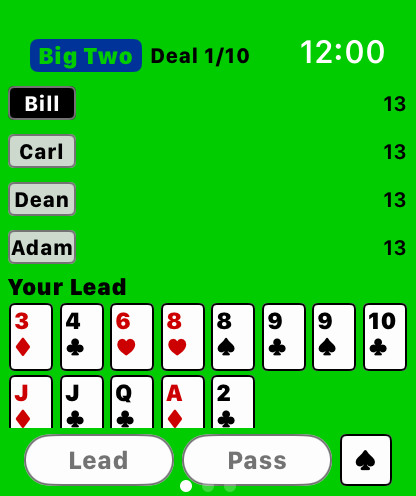
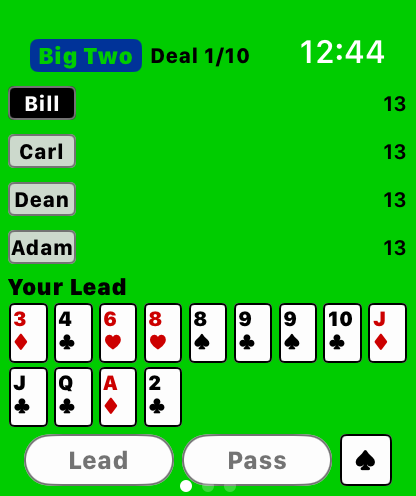
Size the watch's hand to fit, so nothing has to be scrolled to
Reported from a real watch: the table came up already scrolled, with the first
player rows above the fold and the button bar past the bottom edge. Neither
reproduced on a 40mm, 42mm or 46mm simulator on watchOS 11 or 27 — the device
simply has less room than the content wanted, and once a ScrollView is involved
that turns into a scroll position nobody asked for.

So nothing scrolls now. The grid sits in a GeometryReader, which in a stack
takes exactly the space that is left, and fittedCardHeight(in:) picks the
largest card height from 34 down to 18 whose rows fit it. A 46mm keeps big
cards; a 40mm now shows all thirteen where it showed six. This is also what the
project already required — a watchOS UI test cannot scroll, and the Digital
Crown has no XCUITest API — so anything the player needs had to be on screen
anyway.

The band's depth is also read live now, in the same layout pass that uses it.
Stashed in @State from an onAppear it looked right on every simulator here and
was wrong on the device, where the bar sank past the bottom edge.

Tried and rejected, measured rather than assumed:
ToolbarItemGroup(placement: .bottomBar) leaves the content 204x133 of a 208x248
screen on a 46mm — 53pt at the bottom against 32 for the hand-built bar — and
still draws its pills taller than it reserved, so the hand's last row lands
under them unless the cards shrink to about 20pt, which cannot be read.

BigTwoWatchUITests 8/8 on the 46mm; 40mm/watchOS 11 checked by hand.

Changed region(s): [[0.0, 0.6048, 1.0, 0.877], [0.75, 0.0605, 0.9375, 0.1512]]

diff --git a/BigTwoWatch/Views/WatchGameView.swift b/BigTwoWatch/Views/WatchGameView.swift
@@ -2,9 +2,9 @@
 //  WatchGameView.swift
 //  Big Two on the watch, in the phone's shape: the navy title and the deal counter share
 //  the top bar with the system clock, the four player rows and your hand fill the middle,
-//  and Lead/Play and Pass sit in the bottom safe area. The square itself cannot come
-//  along — a wrist has no room for 320×320 — so the hand is a grid under the Digital
-//  Crown rather than a strip along the bottom edge.
+//  and Lead/Play and Pass sit in the band the watch keeps at the bottom. The square itself cannot come
+//  along — a wrist has no room for 320×320 — so the hand is a grid, and its cards are
+//  sized to whatever space is left so that nothing ever has to be scrolled to.
 //
 
 import BigTwoKit
@@ -14,11 +14,11 @@ struct WatchGameView: View {
   @ObservedObject var game: BigTwoGame
   @State private var selection: Set<Card> = []
   @State private var message: String?
-  /// How deep the band the system keeps at the bottom is on this watch — measured,
-  /// because it differs by watch size and by watchOS version. See `controls`.
-  @State private var bottomInset: CGFloat = 0
 
-  private static let handCardHeight: CGFloat = 34
+  /// The hand's cards are sized to the space that is left, between these two. A 46mm has
+  /// room for the full 34; a 41mm does not, and a card it has to shrink still reads.
+  private static let maxCardHeight: CGFloat = 34
+  private static let minCardHeight: CGFloat = 18
   /// The pinned button bar: how tall it is, and how far its pills stay off the glass.
   private static let barHeight: CGFloat = 32
   private static let barLift: CGFloat = 2
@@ -31,46 +31,50 @@ struct WatchGameView: View {
   /// Play order starting from you, as on the phone.
   private var rowOrder: [Int] { (0..<4).map { (seat + $0) % 4 } }
 
-  private let columns = [
-    GridItem(.adaptive(minimum: WatchGameView.handCardHeight * WatchCardView.aspect), spacing: 2)
-  ]
-
   var body: some View {
     // The top bar only exists inside a navigation stack; it is what puts the title on
     // the clock's own row instead of costing a strip of the screen below it.
-    NavigationStack { table }
-      // The one way to learn how deep that band is: an overlay is not laid out into it,
-      // but it does report it.
-      .overlay {
-        GeometryReader { geo in
-          Color.clear.onAppear { bottomInset = geo.safeAreaInsets.bottom }
-        }
-        .allowsHitTesting(false)
+    NavigationStack {
+      // ⚠ The band's depth is read live, in the same layout pass that uses it. Stashing
+      // it in `@State` from an `onAppear` looked identical on every simulator here and
+      // was wrong on a real watch: the first value a paged `TabView` hands out is not the
+      // one the page settles at, and a bar sunk by a depth that is too large walks off
+      // the bottom of the screen.
+      GeometryReader { geo in
+        table(sink: max(geo.safeAreaInsets.bottom - Self.barLift, 0))
       }
+    }
   }
 
-  private var table: some View {
+  private func table(sink: CGFloat) -> some View {
     // A plain stack, not `safeAreaInset`: the whole thing is pushed down into the system's
-    // bottom band (see `bottomInset`), and an inset bar leaves the scroll view laid out
-    // over it — the hand's last row came back clipped.
+    // bottom band, and an inset bar leaves the content laid out over it — the hand's last
+    // row came back clipped.
     VStack(spacing: 0) {
-      ScrollView {
-        VStack(spacing: 1) {
-          ForEach(rowOrder, id: \.self) { s in
-            WatchPlayerRowView(player: game.seats[s], action: game.lastActions[s],
-                               isTurn: game.turn == s && game.result == nil)
-          }
-          Text(verbatim: message ?? prompt)
-            .font(.palm(12, .heavy))
-            .foregroundColor(.ink)
-            .lineLimit(2)
-            .minimumScaleFactor(0.7)
-            .frame(maxWidth: .infinity, alignment: .leading)
-            .accessibilityIdentifier("prompt")
-          LazyVGrid(columns: columns, spacing: 2) {
+      VStack(spacing: 1) {
+        ForEach(rowOrder, id: \.self) { s in
+          WatchPlayerRowView(player: game.seats[s], action: game.lastActions[s],
+                             isTurn: game.turn == s && game.result == nil)
+        }
+        Text(verbatim: message ?? prompt)
+          .font(.palm(12, .heavy))
+          .foregroundColor(.ink)
+          .lineLimit(2)
+          .minimumScaleFactor(0.7)
+          .frame(maxWidth: .infinity, alignment: .leading)
+          .accessibilityIdentifier("prompt")
+        // ⚠ Nothing scrolls any more. A hand that does not fit is the whole bug: a
+        // watchOS UI test cannot scroll, the Digital Crown has no XCUITest API, and on a
+        // real watch the table came up already scrolled, with the player rows above the
+        // fold — a smaller screen than any simulator here reproduced it on. A
+        // GeometryReader in a stack takes exactly what is left, so the cards are sized to
+        // it instead: the full 34 wherever there is room, less where there is not.
+        GeometryReader { space in
+          let height = fittedCardHeight(in: space.size)
+          LazyVGrid(columns: [GridItem(.adaptive(minimum: height * WatchCardView.aspect),
+                                       spacing: 2)], spacing: 2) {
             ForEach(hand) { card in
-              WatchCardView(card: card, selected: selection.contains(card),
-                            height: Self.handCardHeight)
+              WatchCardView(card: card, selected: selection.contains(card), height: height)
                 // ⚠ The two-tap gesture has to be attached *before* the one-tap one, or
                 // the single tap swallows the event and the double never fires.
                 .onTapGesture(count: 2) { selectSuitOrPair(card) }
@@ -79,25 +83,26 @@ struct WatchGameView: View {
                 .accessibilityIdentifier("hand_\(card.code)")
             }
           }
+          .frame(maxWidth: .infinity, maxHeight: .infinity, alignment: .top)
         }
-        .padding(.horizontal, 2)
-        // The navigation bar reserves a band under the clock that nothing draws in. Taking
-        // it back is what keeps the whole hand on one screen once the played cards grew.
-        .padding(.top, -22)
       }
-      // Open at the top. Reported from a real watch: the table came up already scrolled,
-      // with the first player rows above the fold. Not reproducible on any simulator here
-      // (40mm/46mm, watchOS 11 and 27), so this pins what the simulators do by default.
-      .defaultScrollAnchor(.top)
+      .padding(.horizontal, 2)
+      // The navigation bar reserves a band under the clock that nothing draws in. Taking
+      // it back is what keeps the whole hand on one screen once the played cards grew.
+      .padding(.top, -22)
       controls
     }
     // The system keeps a deep band at the bottom for the curved glass — 26pt on a 40mm,
     // 36pt on a 46mm. Left alone it is an empty strip under the buttons and costs the
-    // hand a row. ⚠ `.ignoresSafeArea` does not take it back: on watchOS 11 the modifier
-    // is a no-op there at every level (the bar, the scroll view, the navigation stack,
-    // the TabView — all four measured), and it only began working in watchOS 27. A
-    // negative padding of the measured depth reaches into it on both, unclipped.
-    .padding(.bottom, -max(bottomInset - Self.barLift, 0))
+    // hand a row; the screen has no room to give it away. ⚠ `.ignoresSafeArea` does not
+    // take it back: on watchOS 11 the modifier is a no-op there at every level (the bar,
+    // the scroll view, the navigation stack, the TabView — all four measured), and it
+    // only began working in watchOS 27. A negative padding does reach into it on both,
+    // unclipped. ⚠ `ToolbarItemGroup(placement: .bottomBar)` is not the answer either:
+    // measured on a 46mm it leaves the content 204×133 of a 208×248 screen — 53pt at the
+    // bottom — and still draws the pills taller than it reserved, so the hand's last row
+    // ends up under them unless the cards shrink to about 20pt, which cannot be read.
+    .padding(.bottom, -sink)
     .toolbar {
       ToolbarItem(placement: .topBarLeading) {
         WatchTitleBarView(deal: game.deal, dealsPerGame: game.rules.dealsPerGame)
@@ -153,6 +158,19 @@ struct WatchGameView: View {
     // The bar reaches below the scroll view into the band; without an opaque fill the
     // felt behind it is a different shade and the strip reads as a seam.
     .background(Color.felt)
+  }
+
+  /// The largest card height, up to `maxCardHeight`, whose rows all fit in `size`. The
+  /// grid is `.adaptive`, so the column count follows from the width the same way it does.
+  private func fittedCardHeight(in size: CGSize) -> CGFloat {
+    var height = Self.maxCardHeight
+    while height > Self.minCardHeight {
+      let columns = max(Int((size.width + 2) / (height * WatchCardView.aspect + 2)), 1)
+      let rows = (hand.count + columns - 1) / columns
+      if CGFloat(rows) * (height + 2) - 2 <= size.height { break }
+      height -= 1
+    }
+    return height
   }
 
   private var prompt: String {

diff --git a/CLAUDE.md b/CLAUDE.md
@@ -184,12 +184,14 @@ runs the same `BigTwoKit` — same rules, same bots, same scoring. The kit decla
 - **Same shape as the phone, chrome in the safe areas.** The navy "Big Two" tab and
   `Deal n/10` share the **top bar with the system clock** — a `ToolbarItem(placement:
   .topBarLeading)` inside a `NavigationStack`, not a strip of screen below the clock;
-  Lead/Play, Pass and the sort icon are `safeAreaInset(edge: .bottom)`. Between them: one
+  Lead/Play, Pass and the sort icon are the last row of a `VStack`. Between them: one
   row per player in play order from you (name chip inverted on that player's turn, their
   last move, cards left), the prompt, and your hand. Only the 320×320 square itself is
-  dropped — a wrist has no room — so the hand is an adaptive `LazyVGrid` that scrolls
-  under the Digital Crown. Putting the title on the clock's row is what buys the space
-  for a **full first row of cards** to be visible without scrolling.
+  dropped — a wrist has no room — so the hand is an adaptive `LazyVGrid`.
+  **Nothing scrolls.** The grid sits in a `GeometryReader`, which in a stack takes exactly
+  the space that is left, and `fittedCardHeight(in:)` picks the largest card height from
+  34 down to 18 whose rows fit it. A 46mm keeps big cards; a 41mm gets smaller ones and
+  still shows all thirteen. Putting the title on the clock's row is what buys that space.
   Lead/Play and Pass hide when it is not your turn, as on the phone; the sort icon does
   not, and shows the order a tap switches *to* (`♠` / `2`).
   A card in someone else's row is `WatchPlayedCardView` — rank and suit **side by side**,
@@ -199,15 +201,28 @@ runs the same `BigTwoKit` — same rules, same bots, same scoring. The kit decla
   keeps `WatchCardView`.
   ⚠ Three offsets fight the system here and all are deliberate: the toolbar drops its item
   below the clock's baseline, so the title carries `.offset(y: -8)` to sit on that row;
-  the watch reserves a deep bottom safe area for the curved glass, so the button bar
-  takes it back with `.ignoresSafeArea(.container, edges: .bottom)` and keeps clear of the
-  rounded corners with its own wider side margins; and the navigation bar reserves a band
-  under the clock that nothing draws in, which the scroll content takes back with a
-  negative top padding. Between them the **whole 13-card hand
-  fits without scrolling** — which is the only way it can be played, since a watchOS UI
-  test (and the Digital Crown) cannot scroll it.
-  ⚠ The pinned bars need an opaque `Color.felt` background: without one the hand scrolls
-  through them and the buttons read as ghosts.
+  the navigation bar reserves a band under the clock that nothing draws in, which the
+  content takes back with a negative top padding; and the watch reserves a deep band at
+  the **bottom** for the curved glass (26pt on a 40mm, 36pt on a 46mm), which the whole
+  stack takes back with a negative bottom padding of that measured depth. Between them the
+  **whole 13-card hand fits without scrolling** — the only way it can be played, since a
+  watchOS UI test (and the Digital Crown) cannot scroll it.
+  ⚠ **The bottom band cannot be taken back with `.ignoresSafeArea`.** On watchOS 11 that
+  modifier is a **no-op** there — measured at all four levels (the button bar, the scroll
+  view, the `NavigationStack`, the `TabView`) — and it only began working in watchOS 27;
+  a 40mm on watchOS 11 showed a 26pt empty strip under the buttons. A negative padding
+  does reach into it on both, and is not clipped. The depth is read **live**, from a
+  `GeometryReader` wrapping the page, in the same layout pass that uses it: stashed in
+  `@State` from an `onAppear` it looked right on every simulator and was wrong on a real
+  watch, where the bar sank past the bottom edge.
+  ⚠ `safeAreaInset(edge: .bottom)` cannot hold that bar either — it reserves the height
+  the bar was *given*, not the part of it that ends up above the band, so the hand's last
+  row came back clipped on a 46mm. A plain `VStack` of content + bar divides the space
+  correctly once the stack itself is the thing that sinks.
+  ⚠ **`ToolbarItemGroup(placement: .bottomBar)` is not the answer.** Measured on a 46mm it
+  leaves the content 204×133 of a 208×248 screen — 53pt at the bottom, against 32 for the
+  hand-built bar — and still draws its pills taller than it reserved, so the hand's last
+  row lands under them unless the cards shrink to about 20pt, which cannot be read.
   ⚠ **`WatchPalmButtonView` needs its own `ButtonStyle`**, for the same reason
   `PalmPressStyle` exists on the phone: every built-in style fades a *disabled* button, so
   a white pill over the felt comes back translucent green. The style must not read

diff --git a/docs/test_runs.md b/docs/test_runs.md
@@ -75,3 +75,4 @@ evidence that a test can fail; they stay in the log.
 - 2026-09-30 — CI fix: the Xcode Cloud ad-hoc export failed with exit 70 on `watch-app` only. Root cause found by listing the developer portal's App IDs — `com.billchan.BigTwo.watchkitapp` had never been registered. Created it as "Big Two Watch" and read the listing back. No repo change could have fixed this
 - 2026-09-30 — watch-app: Preferences and About added as pages of a three-page TabView. `BigTwoWatchUITests` ✓ 8/8, tour extended to five shots. The tour first failed with "the Preferences page never came up" — the swipe had worked; the identifier is on a Button and the query asked for a staticText
 - 2026-10-01 — watch-app: the button bar pinned to the bottom edge on every watch size. `BigTwoWatchUITests` ✓ 8/8 (Series 12 46mm, watchOS 27); the same build checked by hand on 40mm/watchOS 11, 40mm/watchOS 27, 42mm and 46mm/watchOS 27. ⚠ The bug only shows on **watchOS 11**: `.ignoresSafeArea(.container, edges: .bottom)` is a no-op there — measured at all four levels (the bar, the scroll view, the navigation stack, the TabView) — and left a 26pt empty strip under the buttons on a 40mm. A negative padding of the band's measured depth does reach into it on both versions. `safeAreaInset` had to go too: it reserves the height the bar was *given*, not the part that ends up above the band, so the hand's last row came back clipped on a 46mm
+- 2026-10-01 — watch-app: the hand sized to fit instead of scrolled, and the band's depth read live. `BigTwoWatchUITests` ✓ 8/8 (Series 12 46mm, watchOS 27), checked by hand on 40mm/watchOS 11. One run before this failed with *Early unexpected exit … no restart will be attempted* — a CoreSimulatorService interruption from creating simulators mid-run, not the app; the re-run was clean. ⚠ Measured, so it is not guessed again: `ToolbarItemGroup(placement: .bottomBar)` leaves the content **204×133 of a 208×248** screen on a 46mm (top 62, bottom 53), against 36 for the band alone, and draws its pills taller than the 17pt it reserves — the hand's last row lands under them unless the cards shrink to ~20pt. The custom bar costs 32
